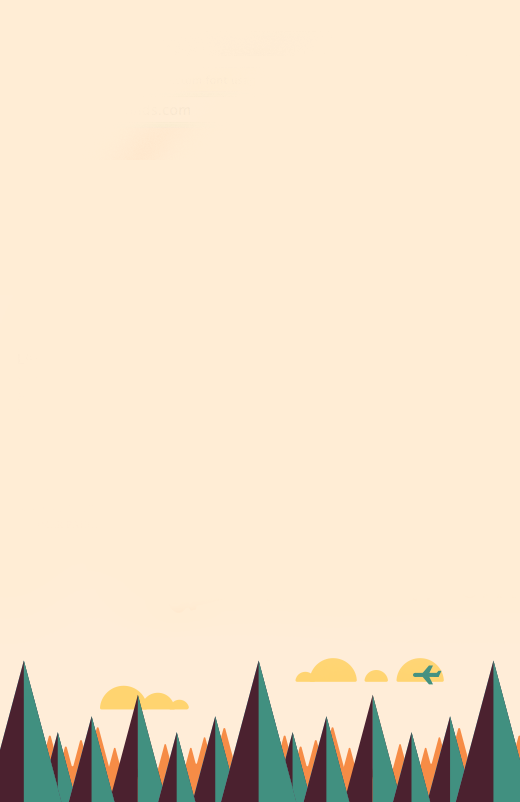
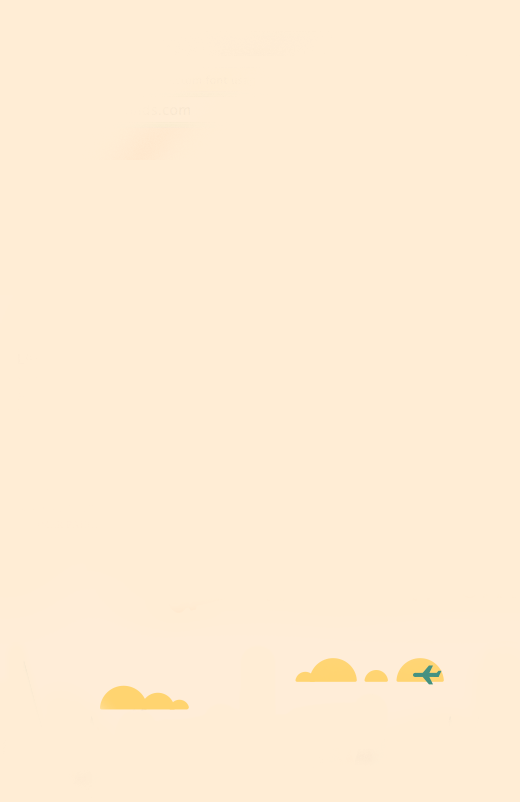
MOUNTAINS THATS WORK!

Changed region(s): [[0.0, 0.8105, 1.0, 1.0]]

diff --git a/www/templates/tab-post.html b/www/templates/tab-post.html
@@ -1,3 +1,4 @@
+<img ng-src="img/topbackground.png" class="disable-user-behavior" style="position: fixed; bottom:30px; z-index:1000">
 <ion-content scroll="false">
 <!--<p style="margin: 25%" /> <h1 class="text-center" style="color: #c54e51; font-size: 150px;">?</h2>
  Should probably put some fancily styled guidelines here -->

diff --git a/www/templates/tab-saved.html b/www/templates/tab-saved.html
@@ -10,7 +10,8 @@
     <button class="button button-clear button-light">Go</button>
   </ion-header-bar>
 
-
+  <img ng-src="img/topbackground.png" class="disable-user-behavior" style="position: fixed; bottom:30px; z-index:1000">
+  
   <ion-content>
     <ion-refresher
       pulling-text="Pull to refresh..."

diff --git a/www/templates/tab-home.html b/www/templates/tab-home.html
@@ -10,6 +10,7 @@
     <button class="button button-clear button-light">Go</button>
   </ion-header-bar>
 
+  <img ng-src="img/topbackground.png" class="disable-user-behavior" style="position: fixed; bottom:30px; z-index:1000">
 
   <ion-content>
     <ion-refresher

diff --git a/www/css/style.css b/www/css/style.css
@@ -9,7 +9,7 @@ p.home-list-p {
    background-size: contain;
    background-size: 100% 100%;
 
-
+   foreground: url(.../img/topbackground.png);
  }
 
 
